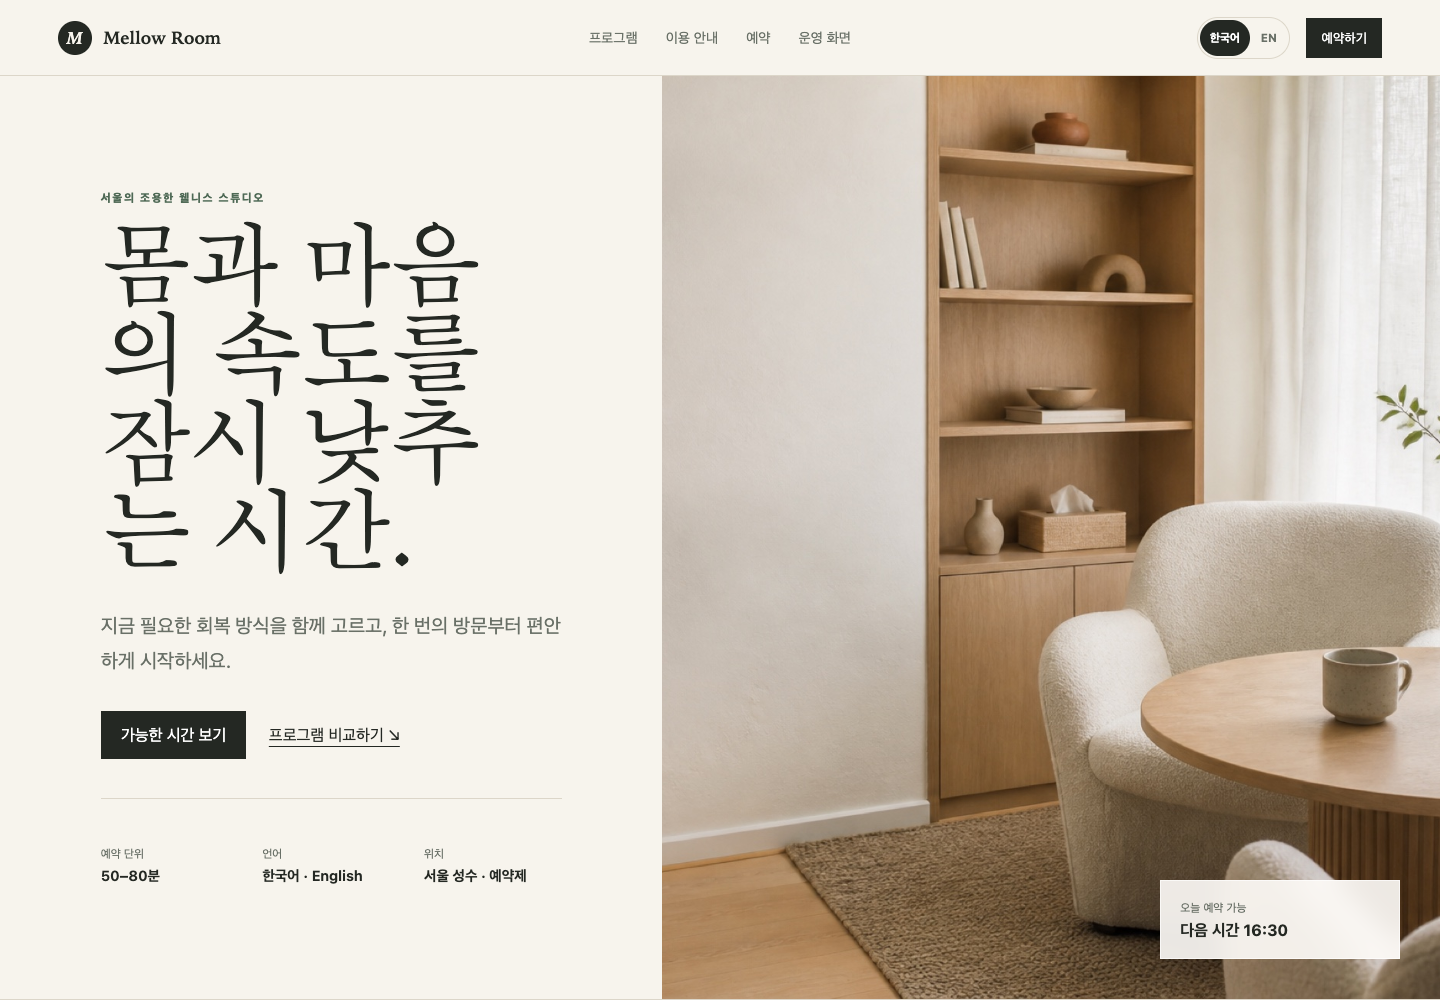
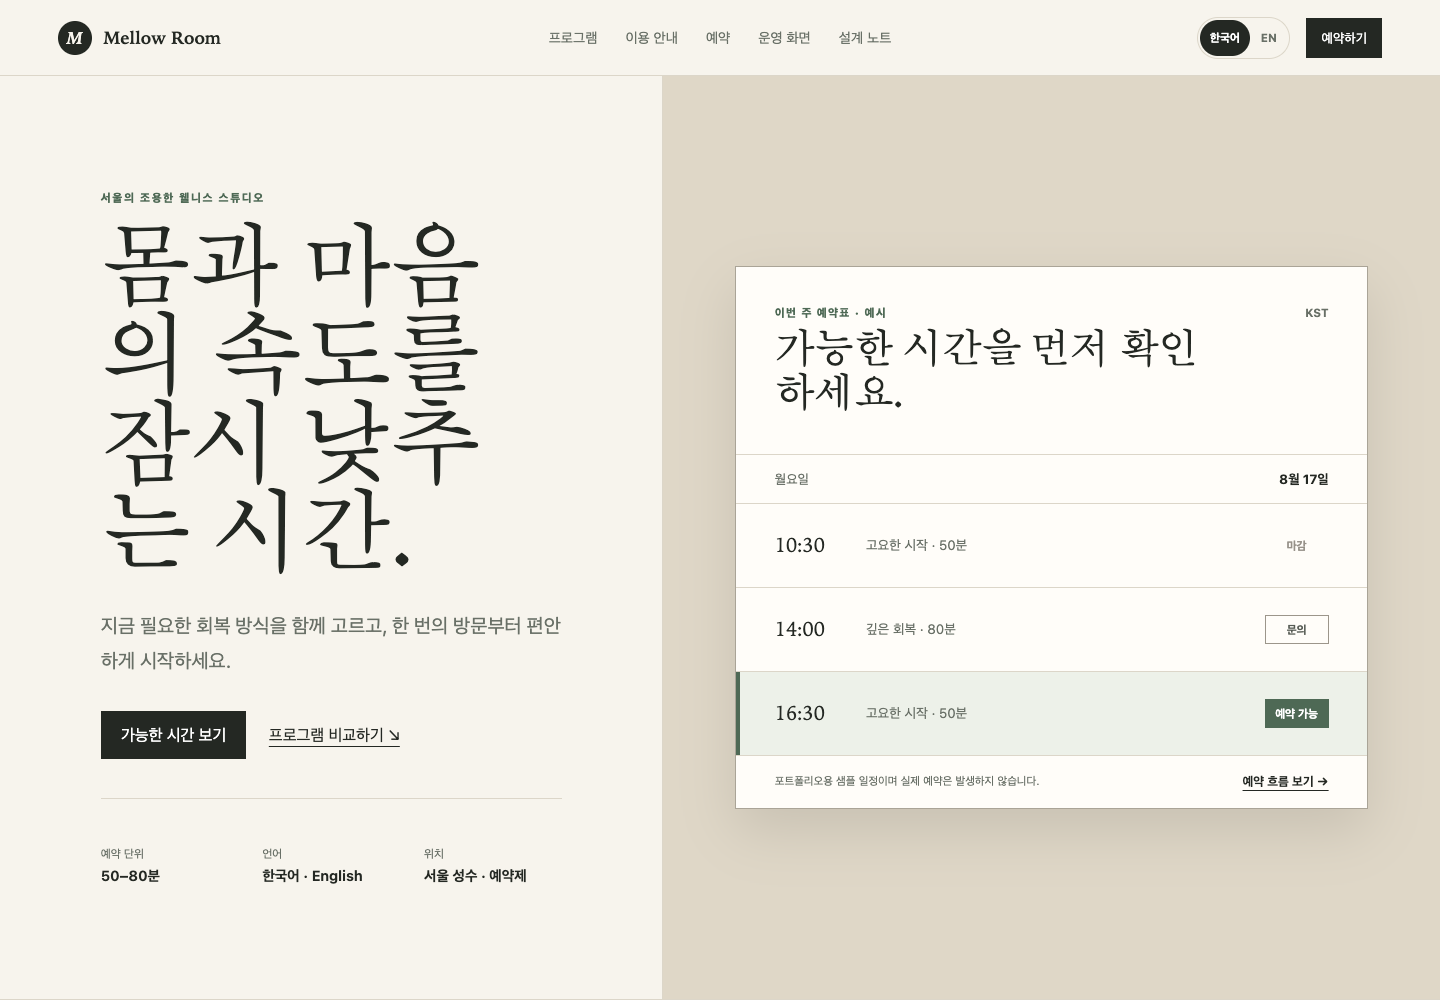
Remove generated hero in favor of booking proof

diff --git a/script.js b/script.js
@@ -2,7 +2,8 @@ const translations = {
   ko: {
     skip: "본문으로 건너뛰기", navServices: "프로그램", navVisit: "이용 안내", navBook: "예약", navOps: "운영 화면", navCase: "설계 노트", bookNow: "예약하기",
     heroEyebrow: "서울의 조용한 웰니스 스튜디오", heroTitle: "몸과 마음의 속도를<br />잠시 낮추는 시간.", heroLead: "지금 필요한 회복 방식을 함께 고르고, 한 번의 방문부터 편안하게 시작하세요.", findTime: "가능한 시간 보기", compareServices: "프로그램 비교하기 <span aria-hidden=\"true\">↘</span>",
-    factOneLabel: "예약 단위", factOneValue: "50–80분", factTwoLabel: "언어", factTwoValue: "한국어 · English", factThreeLabel: "위치", factThreeValue: "서울 성수 · 예약제", heroAlt: "햇살이 들어오는 밝은 웰니스 상담 공간", openToday: "오늘 예약 가능", nextSlot: "다음 시간 16:30",
+    factOneLabel: "예약 단위", factOneValue: "50–80분", factTwoLabel: "언어", factTwoValue: "한국어 · English", factThreeLabel: "위치", factThreeValue: "서울 성수 · 예약제",
+    scheduleEyebrow: "이번 주 예약표 · 예시", scheduleTitle: "가능한 시간을 먼저 확인하세요.", scheduleLegend: "KST", scheduleDay: "월요일", scheduleDate: "8월 17일", slotOneProgram: "고요한 시작 · 50분", slotTwoProgram: "깊은 회복 · 80분", slotThreeProgram: "고요한 시작 · 50분", slotClosed: "마감", slotAsk: "문의", slotOpen: "예약 가능", scheduleNote: "포트폴리오용 샘플 일정이며 실제 예약은 발생하지 않습니다.", scheduleAction: "예약 흐름 보기 →",
     trustIntro: "처음 방문해도 알 수 있도록", trustOne: "가격과 소요 시간 사전 안내", trustTwo: "무리한 패키지 권유 없음", trustThree: "24시간 전까지 일정 변경 가능",
     caseEyebrow: "Portfolio case study · self-initiated", caseTitle: "따뜻한 인상과<br />검증 가능한 예약 흐름을 함께.", caseLead: "밝은 로컬 서비스가 처음 방문한 고객에게 가격·과정·다음 행동을 명확히 보여주면서, 운영자에게는 예약 이후의 상태까지 남기는 것을 목표로 설계했습니다.", caseBriefTitle: "브리프", caseBriefBody: "한국어·영어 고객이 프로그램을 비교하고, 네 단계 안에서 예약 내용을 확인할 수 있는 로컬 웰니스 웹 콘셉트.", caseDecisionTitle: "디자인 판단", caseDecisionBody: "어두운 SaaS 화면 대신 따뜻한 중성색, 절제된 세리프 제목, 넓은 여백을 사용하고 가격·시간·변경 정책을 첫 화면 가까이에 배치했습니다.", caseFlowTitle: "구현 범위", caseFlowBody: "반응형 소개, 한·영 전환, 입력 검증을 포함한 네 단계 예약 데모, 신규·확정·변경 상태를 보여주는 운영 화면을 하나의 흐름으로 연결했습니다.", caseQaTitle: "검증 증거", caseQaBody: "1440·768·390px, 한국어·영어, 필수 입력 오류와 완료 상태를 자동 확인했습니다. 가로 넘침·콘솔 오류·예기치 않은 외부 전송은 0건입니다.",
     servicesEyebrow: "오늘의 상태에 맞는 선택", servicesTitle: "어떤 회복이<br />필요한가요?", servicesLead: "각 프로그램의 시간, 과정, 예시 가격을 먼저 확인하고 선택할 수 있습니다.",
@@ -15,7 +16,8 @@ const translations = {
   en: {
     skip: "Skip to content", navServices: "Programs", navVisit: "What to expect", navBook: "Book", navOps: "Owner view", navCase: "Design notes", bookNow: "Book a visit",
     heroEyebrow: "A quiet wellness studio in Seoul", heroTitle: "A little space<br />to slow down.", heroLead: "Choose the kind of reset you need today, then start with one comfortable visit.", findTime: "See available times", compareServices: "Compare programs <span aria-hidden=\"true\">↘</span>",
-    factOneLabel: "Session", factOneValue: "50–80 minutes", factTwoLabel: "Languages", factTwoValue: "Korean · English", factThreeLabel: "Location", factThreeValue: "Seongsu, Seoul · by appointment", heroAlt: "Sunlit, calm wellness consultation studio", openToday: "Openings today", nextSlot: "Next time 4:30 PM",
+    factOneLabel: "Session", factOneValue: "50–80 minutes", factTwoLabel: "Languages", factTwoValue: "Korean · English", factThreeLabel: "Location", factThreeValue: "Seongsu, Seoul · by appointment",
+    scheduleEyebrow: "Sample availability · this week", scheduleTitle: "Check a time before you start.", scheduleLegend: "KST", scheduleDay: "Monday", scheduleDate: "August 17", slotOneProgram: "A calm beginning · 50 min", slotTwoProgram: "A deeper reset · 80 min", slotThreeProgram: "A calm beginning · 50 min", slotClosed: "Closed", slotAsk: "Ask", slotOpen: "Available", scheduleNote: "Sample availability for this portfolio. No real booking is created.", scheduleAction: "Try the booking flow →",
     trustIntro: "Clear from your first visit", trustOne: "Price and duration shown upfront", trustTwo: "No pressured packages", trustThree: "Reschedule up to 24 hours before",
     caseEyebrow: "Portfolio case study · self-initiated", caseTitle: "A warm first impression.<br />A booking flow you can verify.", caseLead: "The concept was designed to help first-time visitors understand price, process, and the next action while giving the owner a clear view of what happens after a booking arrives.", caseBriefTitle: "Brief", caseBriefBody: "A local wellness web concept where Korean- and English-speaking visitors can compare programs and review a booking within four steps.", caseDecisionTitle: "Design decision", caseDecisionBody: "Instead of a dark SaaS interface, the visual direction uses warm neutrals, restrained serif headings, and generous space, with price, duration, and the change policy close to the first viewport.", caseFlowTitle: "Implementation", caseFlowBody: "The build connects a responsive service introduction, Korean/English switching, a four-step booking demo with input validation, and an owner view with new, confirmed, and change-request states.", caseQaTitle: "Verification evidence", caseQaBody: "Automated checks cover 1440, 768, and 390px, Korean and English, required-field errors, and the completion state. Horizontal overflow, console errors, and unexpected external transmission are all zero.",
     servicesEyebrow: "Choose for how you feel today", servicesTitle: "What kind of reset<br />do you need?", servicesLead: "Compare the time, process, and example price before you choose.",

diff --git a/styles.css b/styles.css
@@ -77,10 +77,25 @@ h1 { max-width: 700px; margin: 0; font-size: clamp(3.25rem, 6.4vw, 6.5rem); line
 .hero__facts div { min-width: 0; }
 .hero__facts dt { color: var(--muted); font-size: .72rem; margin-bottom: .4rem; }
 .hero__facts dd { margin: 0; font-size: .9rem; font-weight: 650; }
-.hero__visual { margin: 0; position: relative; min-height: 720px; overflow: hidden; }
-.hero__visual img { width: 100%; height: 100%; object-fit: cover; object-position: 56% center; }
-.hero__visual figcaption { position: absolute; right: clamp(1rem, 3vw, 2.5rem); bottom: clamp(1rem, 3vw, 2.5rem); width: min(240px, calc(100% - 2rem)); padding: 1.2rem; background: rgba(255,253,249,.9); backdrop-filter: blur(12px); border: 1px solid rgba(255,255,255,.7); display: grid; gap: .45rem; }
-.hero__visual figcaption span { color: var(--muted); font-size: .72rem; }
+.hero__schedule { min-height: 720px; padding: clamp(1.5rem, 5vw, 5rem); display: grid; place-items: center; background: #dfd7c7; border-left: 1px solid var(--line); }
+.schedule-window { width: min(100%, 680px); background: var(--white); border: 1px solid #aaa497; box-shadow: 0 22px 55px rgba(57, 55, 49, .14); }
+.schedule-window__header { padding: clamp(1.4rem, 3vw, 2.4rem); display: flex; align-items: flex-start; justify-content: space-between; gap: 2rem; border-bottom: 1px solid var(--line); }
+.schedule-window__header p { margin: 0 0 .55rem; color: var(--sage-strong); font-size: .72rem; font-weight: 800; letter-spacing: .11em; text-transform: uppercase; }
+.schedule-window__header h2 { max-width: 430px; font: 500 clamp(1.65rem, 3vw, 2.55rem)/1.08 var(--serif); }
+.schedule-window__legend { color: var(--muted); font-size: .72rem; font-weight: 700; }
+.schedule-window__day { padding: 1rem clamp(1.4rem, 3vw, 2.4rem); display: flex; justify-content: space-between; gap: 1rem; border-bottom: 1px solid var(--line); font-size: .82rem; }
+.schedule-window__day span { color: var(--muted); }
+.schedule-window__slots { list-style: none; margin: 0; padding: 0; }
+.schedule-window__slots li { min-height: 84px; padding: 0 clamp(1.4rem, 3vw, 2.4rem); display: grid; grid-template-columns: 72px 1fr auto; align-items: center; gap: 1.2rem; border-bottom: 1px solid var(--line); }
+.schedule-window__slots li.is-next { background: #edf1e9; box-shadow: inset 4px 0 0 var(--sage-strong); }
+.schedule-window__slots time { font: 500 1.25rem var(--serif); }
+.schedule-window__slots li > span { color: var(--muted); font-size: .84rem; }
+.slot-status { min-width: 64px; padding: .45rem .6rem; border: 1px solid #9c968b; color: #565b54; font-size: .72rem; text-align: center; }
+.slot-status--closed { border-color: transparent; color: #969189; }
+.slot-status--open { border-color: var(--sage-strong); background: var(--sage-strong); color: white; }
+.schedule-window footer { padding: 1.1rem clamp(1.4rem, 3vw, 2.4rem); display: flex; align-items: center; justify-content: space-between; gap: 1rem; }
+.schedule-window footer > span { max-width: 330px; color: var(--muted); font-size: .7rem; line-height: 1.5; }
+.schedule-window footer a { flex: 0 0 auto; color: var(--ink); font-size: .78rem; font-weight: 700; text-underline-offset: 4px; }
 
 .trust-strip { display: grid; grid-template-columns: auto 1fr; gap: 2rem; align-items: center; padding: 1.25rem clamp(1rem, 4vw, 4.5rem); border-bottom: 1px solid var(--line); background: var(--ink); color: white; }
 .trust-strip p { margin: 0; color: #cbd0ca; font-size: .78rem; }
@@ -228,7 +243,7 @@ h2 { margin: 0; font-size: clamp(2.7rem, 5vw, 5.25rem); line-height: 1; }
   .nav { grid-row: 2; grid-column: 1 / -1; justify-content: center; }
   .hero { grid-template-columns: 1fr; }
   .hero__content { min-height: 720px; }
-  .hero__visual { min-height: 640px; }
+  .hero__schedule { min-height: 640px; }
   .trust-strip { grid-template-columns: 1fr; }
   .trust-strip ul { justify-content: flex-start; flex-wrap: wrap; }
   .section--visit, .section--operations { grid-template-columns: 1fr; }
@@ -245,8 +260,13 @@ h2 { margin: 0; font-size: clamp(2.7rem, 5vw, 5.25rem); line-height: 1; }
   .hero__content { min-height: auto; padding: 4.5rem 1rem 3rem; }
   h1 { font-size: clamp(3.05rem, 15.5vw, 4.25rem); }
   .hero__facts { grid-template-columns: 1fr; gap: 1rem; margin-top: 3rem; }
-  .hero__visual { min-height: 510px; }
-  .hero__visual img { object-position: 64% center; }
+  .hero__schedule { min-height: auto; padding: 1rem; }
+  .schedule-window { box-shadow: none; }
+  .schedule-window__header { display: block; }
+  .schedule-window__legend { display: inline-block; margin-top: .8rem; }
+  .schedule-window__slots li { grid-template-columns: 58px 1fr; gap: .8rem; padding-top: .9rem; padding-bottom: .9rem; }
+  .slot-status { grid-column: 2; justify-self: start; }
+  .schedule-window footer { align-items: flex-start; flex-direction: column; }
   .trust-strip { gap: 1rem; }
   .trust-strip ul { display: grid; gap: .65rem; }
   .case-study { gap: 2.5rem; padding: 4.5rem 1rem; }

diff --git a/index.html b/index.html
@@ -50,13 +50,42 @@
             <div><dt data-i18n="factThreeLabel">위치</dt><dd data-i18n="factThreeValue">서울 성수 · 예약제</dd></div>
           </dl>
         </div>
-        <figure class="hero__visual">
-          <img src="./assets/mellow-room-hero.jpg" alt="햇살이 들어오는 밝은 웰니스 상담 공간" data-i18n-alt="heroAlt" />
-          <figcaption>
-            <span data-i18n="openToday">오늘 예약 가능</span>
-            <strong data-i18n="nextSlot">다음 시간 16:30</strong>
-          </figcaption>
-        </figure>
+        <aside class="hero__schedule" aria-labelledby="hero-schedule-title">
+          <div class="schedule-window">
+            <header class="schedule-window__header">
+              <div>
+                <p data-i18n="scheduleEyebrow">이번 주 예약표 · 예시</p>
+                <h2 id="hero-schedule-title" data-i18n="scheduleTitle">가능한 시간을 먼저 확인하세요.</h2>
+              </div>
+              <span class="schedule-window__legend" data-i18n="scheduleLegend">KST</span>
+            </header>
+            <div class="schedule-window__day">
+              <span data-i18n="scheduleDay">월요일</span>
+              <strong data-i18n="scheduleDate">8월 17일</strong>
+            </div>
+            <ol class="schedule-window__slots">
+              <li>
+                <time datetime="10:30">10:30</time>
+                <span data-i18n="slotOneProgram">고요한 시작 · 50분</span>
+                <strong class="slot-status slot-status--closed" data-i18n="slotClosed">마감</strong>
+              </li>
+              <li>
+                <time datetime="14:00">14:00</time>
+                <span data-i18n="slotTwoProgram">깊은 회복 · 80분</span>
+                <strong class="slot-status" data-i18n="slotAsk">문의</strong>
+              </li>
+              <li class="is-next">
+                <time datetime="16:30">16:30</time>
+                <span data-i18n="slotThreeProgram">고요한 시작 · 50분</span>
+                <strong class="slot-status slot-status--open" data-i18n="slotOpen">예약 가능</strong>
+              </li>
+            </ol>
+            <footer>
+              <span data-i18n="scheduleNote">포트폴리오용 샘플 일정이며 실제 예약은 발생하지 않습니다.</span>
+              <a href="#booking" data-i18n="scheduleAction">예약 흐름 보기 <span aria-hidden="true">→</span></a>
+            </footer>
+          </div>
+        </aside>
       </section>
 
       <section class="trust-strip" aria-label="Service principles">

diff --git a/platform-assets/wishket/portfolio-copy-ko.md b/platform-assets/wishket/portfolio-copy-ko.md
@@ -37,7 +37,7 @@ https://mellowroom.forblune.com
 
 2. 작업 범위
 
-1인 프로젝트로 서비스 구조와 사용자 흐름 기획, 밝은 편집형 UI, 한·영 전환, 반응형 프론트엔드 개발, Cloudflare 커스텀 도메인 배포, 데스크톱·태블릿·모바일 QA를 담당했습니다.
+1인 프로젝트로 서비스 구조와 사용자 흐름 기획, 밝은 편집형 UI, 한·영 전환, 반응형 프론트엔드 개발, Cloudflare 커스텀 도메인 배포, 데스크톱·태블릿·모바일 QA를 담당했습니다. 첫 화면에는 가상의 공간 사진 대신 실제 예약 데모와 같은 일정표 UI를 배치해 작업 범위가 바로 보이게 구성했습니다.
 
 3. 주요 업무
 

diff --git a/README.md b/README.md
@@ -19,9 +19,9 @@ A bright, bilingual local-wellness booking and operations portfolio concept by F
 - Responsive behavior for desktop, tablet, and mobile.
 - Custom-domain deployment through Cloudflare Workers static assets.
 
-## Visual asset
+## Visual direction
 
-`assets/mellow-room-hero.jpg` is an original AI-generated concept image created for this portfolio. It does not show a real business location.
+The first viewport uses the working sample schedule instead of a generated or stock location photograph. This keeps the fictional-service boundary visible and makes the booking interaction, not an invented venue, the proof of work.
 
 ## Local preview
 
